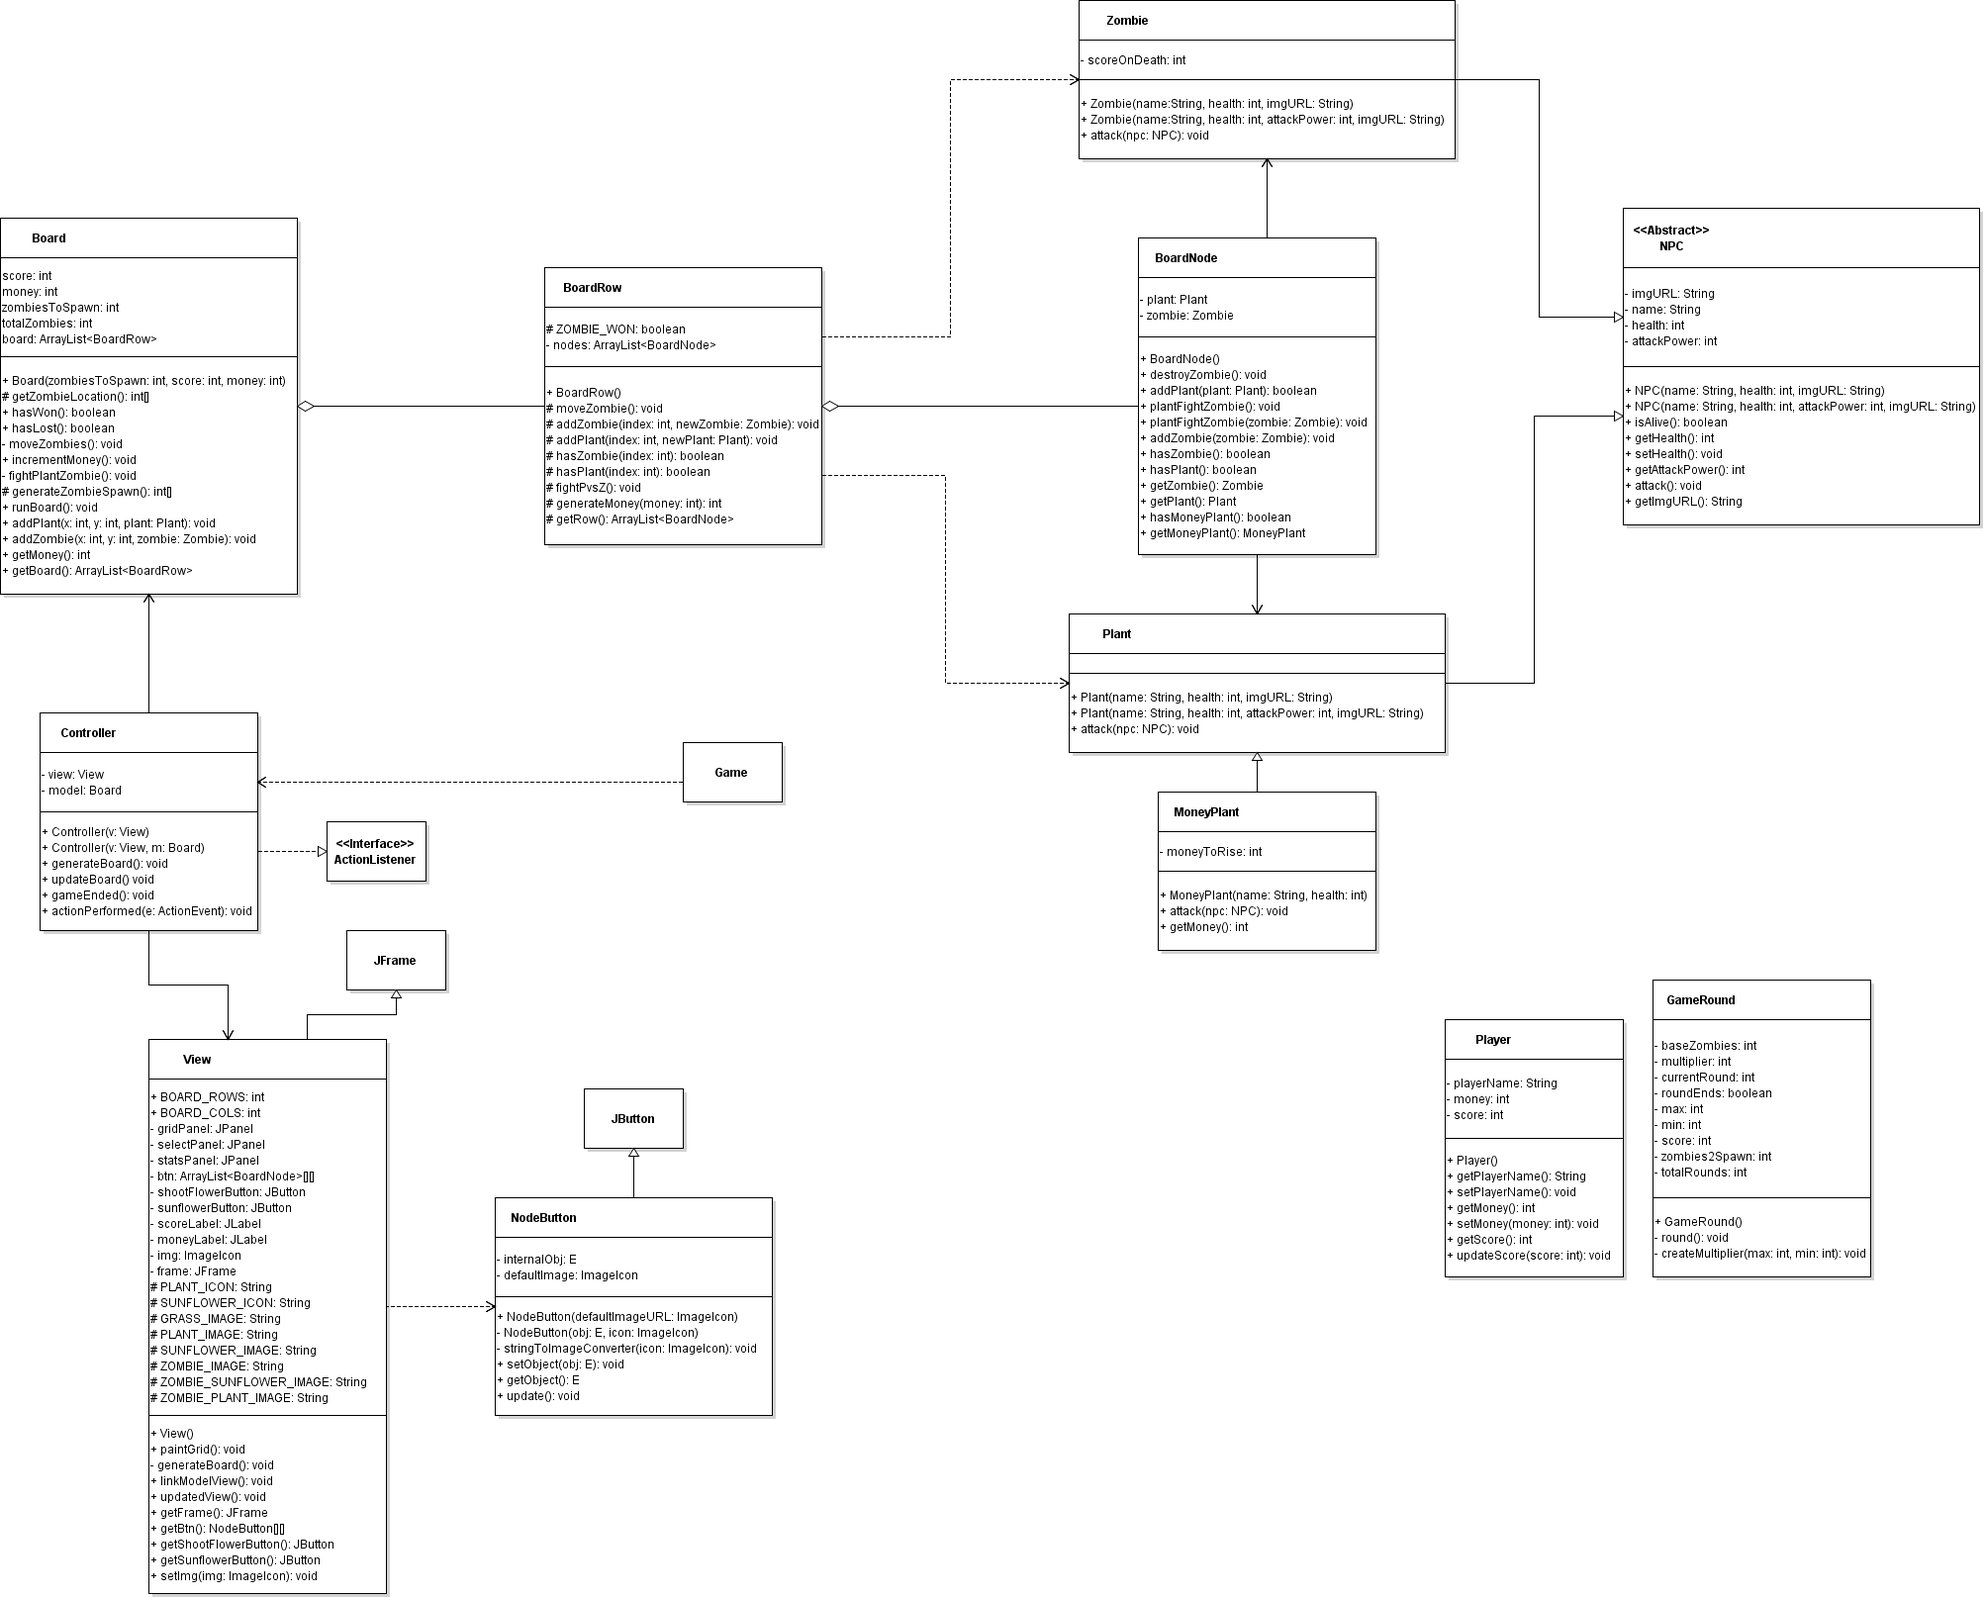
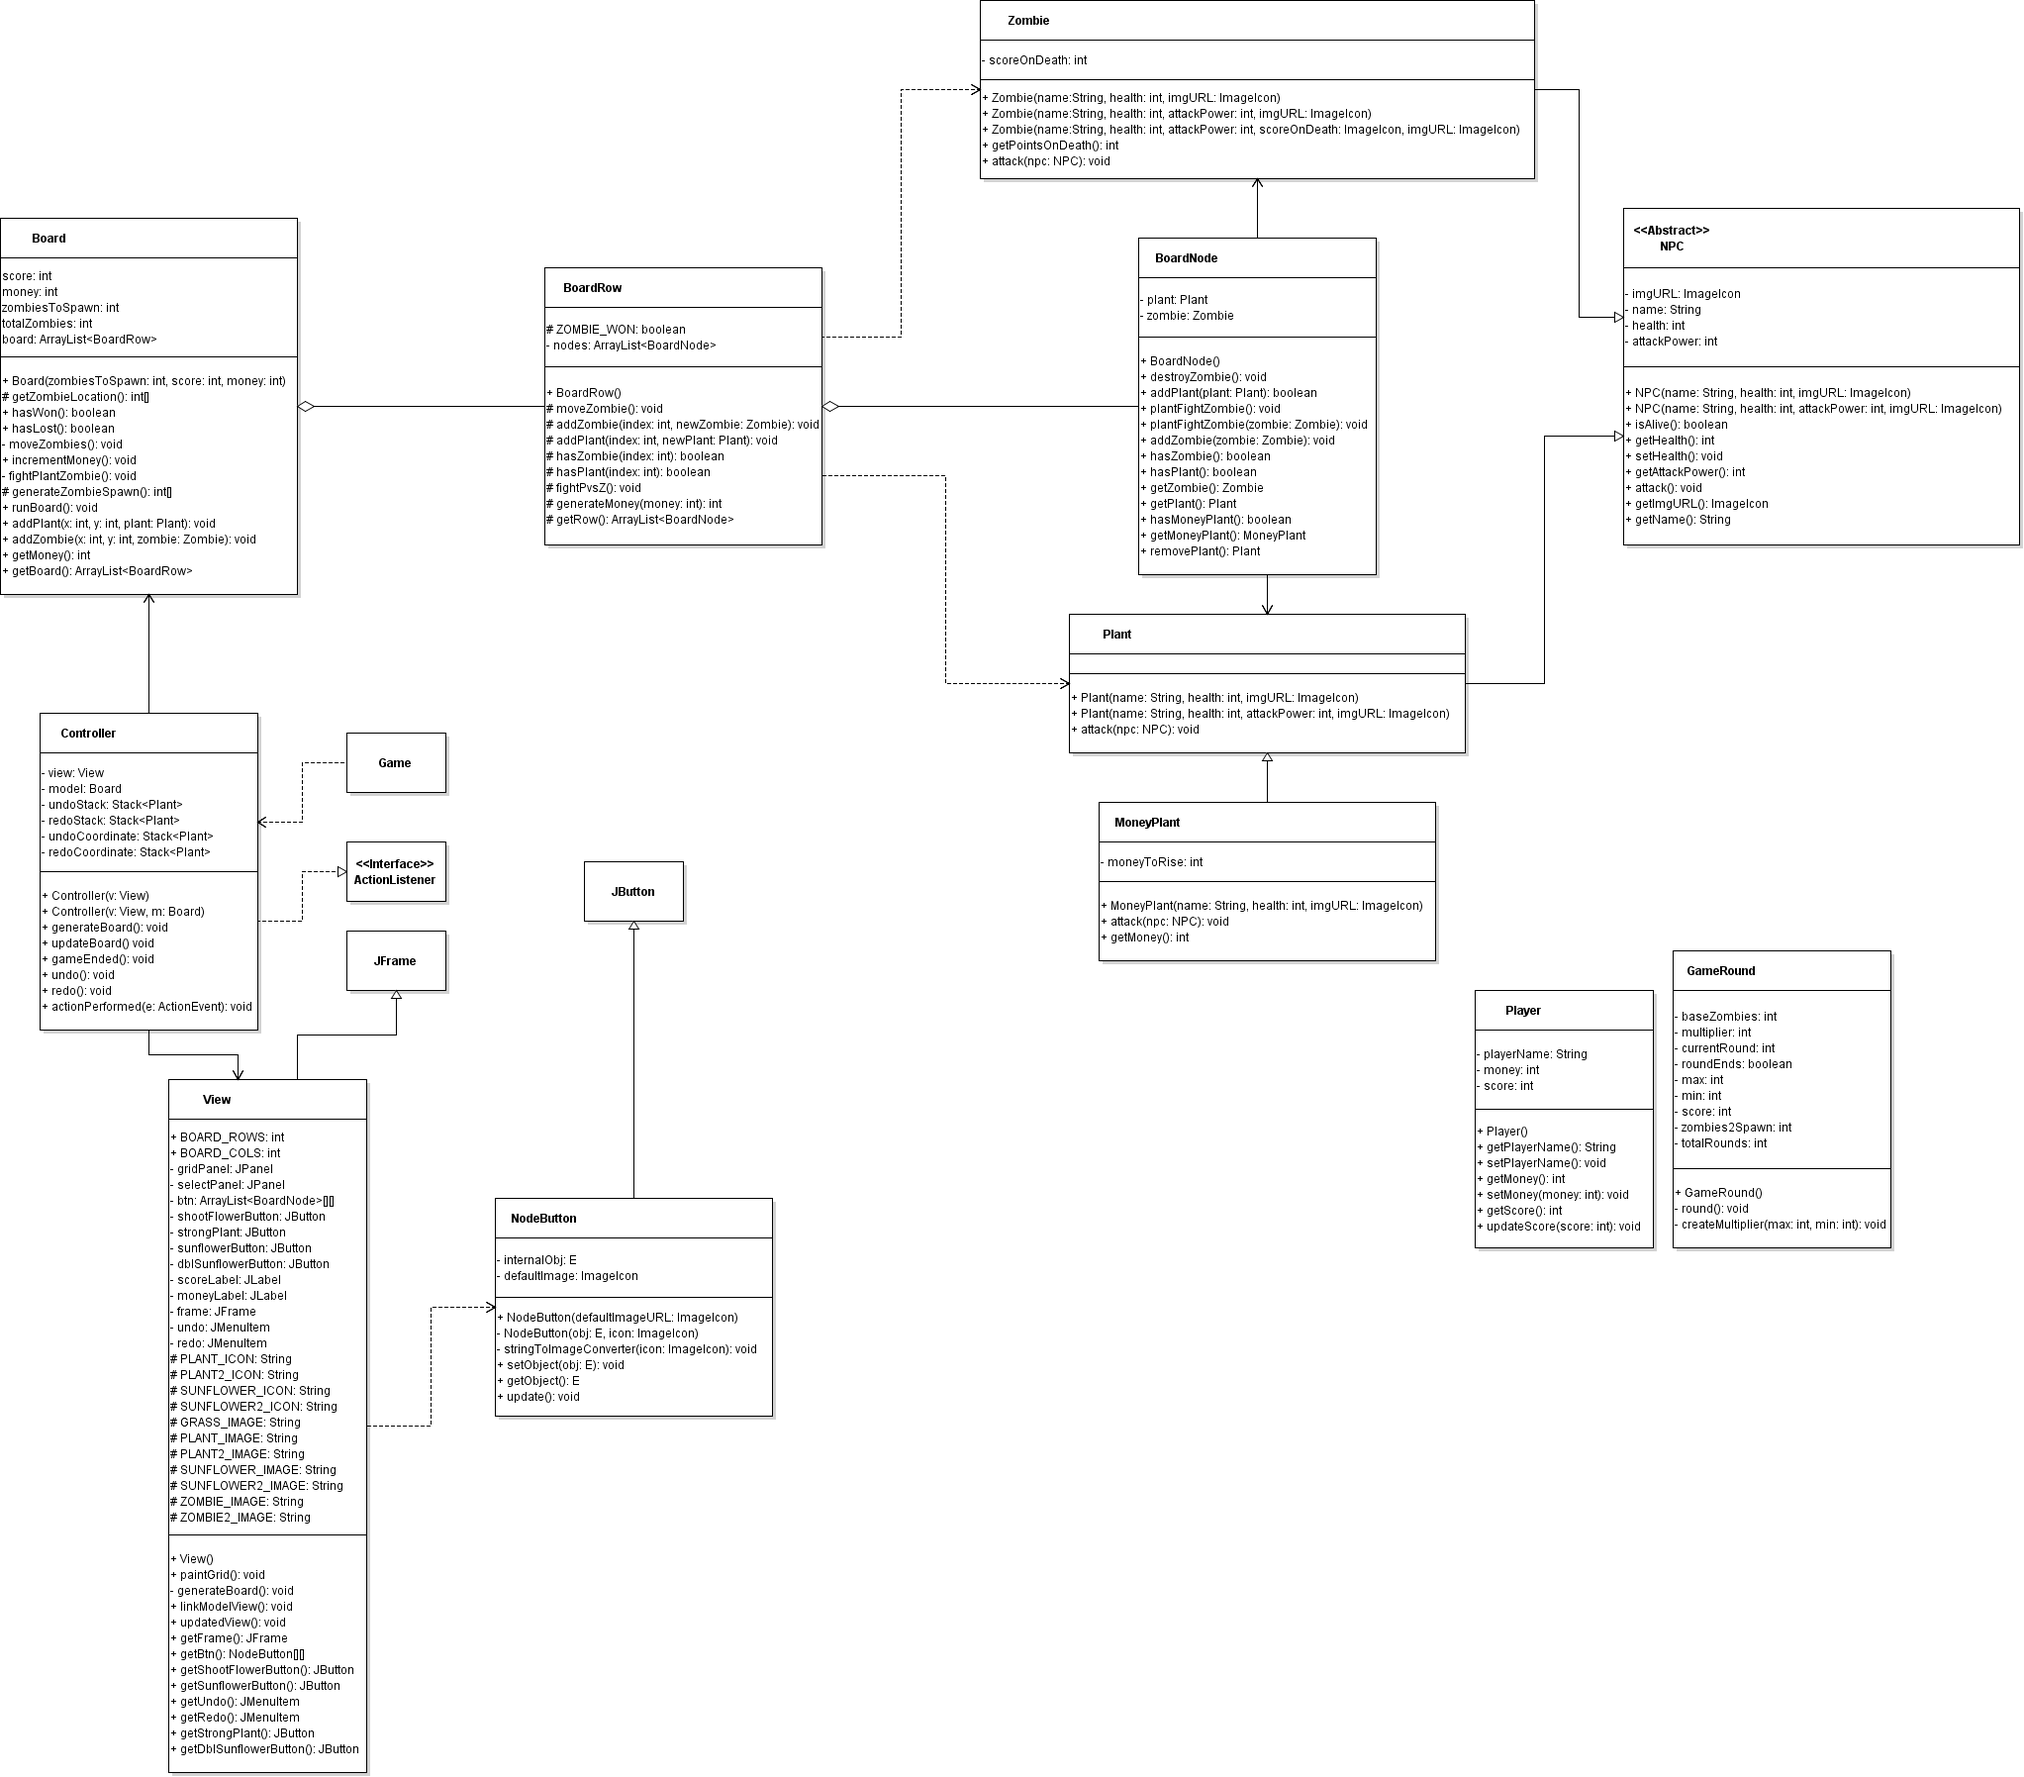
Class Diagram, refactoring, comments - Ahmed Romih

diff --git a/SouceCode/src/Controller.java b/SouceCode/src/Controller.java
@@ -21,7 +21,7 @@ public class Controller implements ActionListener {
     private static Stack<Plant> undoStack;          //stack with all plants added to board or redo-ed
     private static Stack<Plant> redoStack;          //stack of the plants that were undo-ed
     private static Stack<Integer> undoCoordinate;   //x,y position of plants being added or redo-ed
-    private static Stack<Integer> redoCoordinate;   //x,y position of plants being that were undo-ed
+    private static Stack<Integer> redoCoordinate;   //x,y position of plants that were undo-ed
 
     /**
      * Default constructor that requires only View to be passed
@@ -114,17 +114,14 @@ public class Controller implements ActionListener {
             if (plant.getName().equals("Sunflower")) {
                 View.getBtn()[i][j].stringToImageConverter(new ImageIcon(this.getClass().getResource(View.SUNFLOWER_IMAGE)));
                 return;
-            }
-            if (plant.getName().equals("Sunflower2")){
+            } else if (plant.getName().equals("Sunflower2")) {
                 View.getBtn()[i][j].stringToImageConverter(new ImageIcon(this.getClass().getResource(View.SUNFLOWER2_IMAGE)));
                 return;
             }
-        }
-        if (plant.getName().equals("Plant")){
+        } else if (plant.getName().equals("Plant")) {
             View.getBtn()[i][j].stringToImageConverter(new ImageIcon(this.getClass().getResource(View.PLANT_IMAGE)));
             return;
-        }
-        if (plant.getName().equals("Plant2")){
+        } else if (plant.getName().equals("Plant2")) {
             View.getBtn()[i][j].stringToImageConverter(new ImageIcon(this.getClass().getResource(View.PLANT2_IMAGE)));
             return;
         }
@@ -135,10 +132,13 @@ public class Controller implements ActionListener {
     public void actionPerformed(ActionEvent e) {
 
         if (e.getSource() == view.getShootFlowerButton()) {
+            // if cursor is a custom image(plant) and reclicked on a plant, change back to default cursor
             if (view.getFrame().getCursor().getType() != 0) {
                 view.getFrame().setCursor(DEFAULT_CURSOR);
                 return;
-            } else {
+            }
+            // change cursor to plant image
+            else {
                 view.getFrame().setCursor(Toolkit.getDefaultToolkit().
                         createCustomCursor(new ImageIcon(this.getClass().getResource(View.PLANT_ICON)).getImage(),
                                 new Point(0, 0), "plant"));
@@ -229,7 +229,7 @@ public class Controller implements ActionListener {
                 if (toPlant.equals("sunflower2")) {
                     undoCoordinate.push(col);
                     undoCoordinate.push(row);
-                    undoStack.push(model.addPlant(row, col, new MoneyPlant("Sunflower2", 100,25, new ImageIcon(this.getClass().getResource(View.SUNFLOWER2_IMAGE)))));
+                    undoStack.push(model.addPlant(row, col, new MoneyPlant("Sunflower2", 100, 25, new ImageIcon(this.getClass().getResource(View.SUNFLOWER2_IMAGE)))));
                 }
                 //Change cursor back to default
                 if (view.getFrame().getCursor().getType() != 0) {

diff --git a/SouceCode/src/NodeButton.java b/SouceCode/src/NodeButton.java
@@ -15,15 +15,17 @@ public class NodeButton<E> extends JButton {
 
     /**
      * Default constructor that creates JButton with defined image
+     *
      * @param defaultImage ImageIcon image URL
      */
-    public NodeButton(ImageIcon defaultImage)  {
+    public NodeButton(ImageIcon defaultImage) {
         this(null, defaultImage);
     }
 
     /**
      * Default constructor that creates JButton with the background image and linked defined object to it
-     * @param obj E linking object
+     *
+     * @param obj  E linking object
      * @param icon ImageIcon object
      */
     private NodeButton(E obj, ImageIcon icon) {
@@ -34,9 +36,10 @@ public class NodeButton<E> extends JButton {
 
     /**
      * Helper method to clear all styles and add image to it
+     *
      * @param icon ImageIcon object
      */
-    public void stringToImageConverter(ImageIcon icon){
+    public void stringToImageConverter(ImageIcon icon) {
         this.setIcon(null);
         this.setIcon(icon);
         this.setMargin(new Insets(0, 0, 0, 0));
@@ -47,6 +50,7 @@ public class NodeButton<E> extends JButton {
 
     /**
      * Link new object to the button
+     *
      * @param obj E object to link
      */
     public void setObject(E obj) {
@@ -55,9 +59,10 @@ public class NodeButton<E> extends JButton {
 
     /**
      * Get instance of the linked object
+     *
      * @return E object
      */
-    public E getObject(){
+    public E getObject() {
         return this.internalObj;
     }
 
@@ -65,7 +70,7 @@ public class NodeButton<E> extends JButton {
      * Updates the button based on the object (Works only if linked object is BoardNode)
      */
     public void update() {
-        if(!(internalObj instanceof BoardNode)){
+        if (!(internalObj instanceof BoardNode)) {
             return;
         }
 
@@ -73,7 +78,7 @@ public class NodeButton<E> extends JButton {
 
         String path = "images/grassed";
 
-        if(bn.hasPlant()) {
+        if (bn.hasPlant()) {
             switch (bn.getPlant().getName()) {
                 case "Sunflower":
                     path += "Sunflower";
@@ -92,7 +97,7 @@ public class NodeButton<E> extends JButton {
             }
         }
 
-        if(bn.hasZombie()) {
+        if (bn.hasZombie()) {
             switch (bn.getZombie().getName()) {
                 case "Zombie":
                     path += "Zombie";
@@ -104,8 +109,6 @@ public class NodeButton<E> extends JButton {
                     break;
             }
         }
-
-        this.stringToImageConverter(new ImageIcon(this.getClass().getResource(path+".png")));
-
+        this.stringToImageConverter(new ImageIcon(this.getClass().getResource(path + ".png")));
     }
 }

diff --git a/SouceCode/src/BoardNode.java b/SouceCode/src/BoardNode.java
@@ -9,7 +9,7 @@ public class BoardNode {
     private Zombie zombie;
 
     /**
-     * Default constructor that creates empty node with a specified coordinates
+     * Default constructor that creates empty node
      */
     public BoardNode() {
         this.plant = null;
@@ -51,7 +51,7 @@ public class BoardNode {
         this.plant.attack(this.zombie);
 
         if (this.zombie.getHealth() <= 0) {
-            int score = this.zombie.getPointsWhenDead();
+            int score = this.zombie.getPointsOnDeath();
             this.zombie = null;
             return score;
         }

diff --git a/SouceCode/src/BoardRow.java b/SouceCode/src/BoardRow.java
@@ -110,7 +110,7 @@ public class BoardRow {
                         Zombie z = plantFind.plantFightZombie(zombieFind.destroyZombie());
                         if(z.getHealth() <= 0){
                             zombieFind.addZombie(null);
-                            score += z.getPointsWhenDead();
+                            score += z.getPointsOnDeath();
                         } else {
                             zombieFind.addZombie(z);
                         }

diff --git a/SouceCode/test/ZombieTest.java b/SouceCode/test/ZombieTest.java
@@ -22,9 +22,9 @@ public class ZombieTest {
     }
 
     @Test
-    public void testGetPointsWhenDead() {
-        assertEquals("Points should be 10", 10, z.getPointsWhenDead());
-        assertNotEquals("Points should be 10", 20, z.getPointsWhenDead());
+    public void testGetPointsOnDeath() {
+        assertEquals("Points should be 10", 10, z.getPointsOnDeath());
+        assertNotEquals("Points should be 10", 20, z.getPointsOnDeath());
     }
 
     @Test

diff --git a/SouceCode/src/Zombie.java b/SouceCode/src/Zombie.java
@@ -49,7 +49,7 @@ public class Zombie extends NPC {
      * Returns amount of points that would be added to the game score when zombie died
      * @return int score when dead
      */
-    public int getPointsWhenDead() { return scoreOnDeath; }
+    public int getPointsOnDeath() { return scoreOnDeath; }
 
     /**
      * Allows the zombie to attack plants
